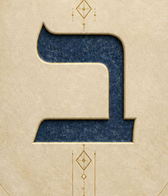
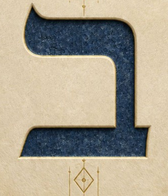
Show the chosen ballots, Azulai's portrait, hidden badges, and a loading mark.
Otzma's chip is ב and Beyachad's is רק. Yinon Azulai keeps his quote with the new portrait. Secret badges stay a question mark until earned, and waiting lines get the antique press.

diff --git a/app/public/app.js b/app/public/app.js
@@ -4071,8 +4071,10 @@ function badgeTierStarRow(tier, { style, foilKey } = {}) {
  * Every badge keeps its own icon and adds a 1/2/3 star row for the tier.
  * The sheen plays once per badge per device (see takeBadgeSheen), not on every re-render.
  */
-function badgeArtwork(id, { tier = "simple", earned = true, sheen = false } = {}) {
-  const icon = {
+function badgeArtwork(id, { tier = "simple", earned = true, sheen = false, secret = false } = {}) {
+  const icon = secret
+    ? '<path d="M21.2 20.2a2.8 2.8 0 1 1 5.2 1.5c-.7.8-2.2 1.3-2.2 2.8"/><circle cx="24.2" cy="28.6" r="1"/>'
+    : {
     "first-rip": '<path d="M16 20h16v14H16zM16 24l8-5 8 5M24 19v15"/><path d="M20 16l2-4 2 4 2-4 2 4"/>',
     "register-five": '<rect x="15" y="18" width="13" height="17" rx="1"/><path d="M19 15h13v17M23 12h12v17"/>',
     "source-check": '<circle cx="22" cy="23" r="7"/><path d="M27 28l6 6M19 23l2 2 4-5"/>',
@@ -4102,6 +4104,7 @@ function badgeArtwork(id, { tier = "simple", earned = true, sheen = false } = {}
     "numbered-first": '<path d="M21.5 14l-3 20M30 14l-3 20M15.5 20.5h18M14.5 27.5h18"/>',
     "streak-thirty": '<path d="M24 12.5c1.2 4.2 6.5 6.4 6.5 12.5a6.5 6.5 0 0 1-13 0c0-3.2 1.8-5.4 3.2-7.4.8 2 1.9 3.2 3.3 3.5-1.2-3-.9-5.9 0-8.6z"/>',
     "ten-copies": '<rect x="13" y="19" width="11" height="15" rx="1"/><rect x="18.5" y="16.5" width="11" height="15" rx="1"/><rect x="24" y="14" width="11" height="15" rx="1"/><path d="M27 19v6M30 19h2.5v6H30z"/>',
+    "warehouse-full": '<path d="M15 20h18v14H15zM18 20v-4h12v4M19 25h10M19 29h7"/>',
   }[id] || (String(id).startsWith("set-complete:")
     ? '<rect x="14" y="17" width="12" height="16" rx="1"/><rect x="20" y="14" width="12" height="16" rx="1"/><path d="M23.5 22.5l2.5 2.5 4.5-5"/>'
     : '<circle cx="24" cy="24" r="5"/>');
@@ -4153,6 +4156,7 @@ const ACHIEVEMENT_RULES = [
   ["profile", "שם או אווטאר משלי"],
   ["rare", "קלפים נדירים"],
   ["numbered", "קלפים ממוספרים"],
+  ["warehouseFull", "מחסן מלא עד הסוף"],
   ["league", "חבר בליגה"],
   ["setComplete", "סדרה מלאה (תג לכל סדרה)"],
 ];
@@ -4172,6 +4176,7 @@ function achievementEditorMarkup(badge = {}) {
           </select>
         </label>
         <label>יעד <input data-ach-field="target" type="number" min="0" max="200" value="${badge.target ?? 1}" /></label>
+        <label>נסתר עד שמשיגים <input data-ach-field="hidden" type="checkbox"${badge.hidden ? " checked" : ""} /></label>
         <label>עמוד
           <select data-ach-field="tier">
             ${ACHIEVEMENT_TIER_ORDER.map((tier) => `<option value="${tier}"${achievementTier(badge) === tier ? " selected" : ""}>${ACHIEVEMENT_TIER_LABELS[tier]}</option>`).join("")}
@@ -4212,6 +4217,7 @@ async function saveStudioAchievements() {
     rule: row.querySelector('[data-ach-field="rule"]').value,
     target: Number(row.querySelector('[data-ach-field="target"]').value) || 0,
     tier: row.querySelector('[data-ach-field="tier"]')?.value || "simple",
+    hidden: Boolean(row.querySelector('[data-ach-field="hidden"]')?.checked),
   }));
   try {
     const saved = await request("/api/studio/achievements", {
@@ -4282,6 +4288,7 @@ const BADGE_COPY = {
   "rare-three": ["שלושה נדירים", "אספו שלושה קלפים נדירים שונים."],
   "ten-copies": ["עשרה עותקים", "אספו עשרה עותקים של אותו קלף."],
   "numbered-first": ["ממוספר", "אספו קלף הולו ממוספר."],
+  "warehouse-full": ["עד אפס מקום", "המחסן הגיע לשמונה קלפים שמחכים."],
   "streak-thirty": ["חודש רצוף", "פתחו קלפים שלושים ימים ברצף."],
 };
 
@@ -4474,21 +4481,22 @@ function renderAchievements() {
   elements.achievementGrid.innerHTML = badges
     .filter((badge) => achievementTier(badge) === model.achievementTier)
     .map((badge) => {
-    const copy = hebrewBadge(badge);
+    const secret = Boolean(badge.hidden) && !badge.earned;
+    const copy = secret ? { name: "?", description: "" } : hebrewBadge(badge);
     const tier = achievementTier(badge);
     const target = Math.max(1, Number(badge.target) || 1);
     const progress = Math.max(0, Math.min(target, Number(badge.progress) || 0));
     const percent = badge.earned ? 100 : Math.max(0, Math.min(100, Math.round((progress / target) * 100)));
     return `
-    <article class="achievement-badge tier-${tier} ${badge.earned ? "earned" : ""}" data-badge-id="${escapeHtml(badge.id)}">
-      <span class="achievement-seal" aria-hidden="true">${badgeArtwork(badge.id, { tier, earned: badge.earned, sheen: tier === "hard" && badge.earned && takeBadgeSheen(badge.id) })}</span>
+    <article class="achievement-badge tier-${tier} ${badge.earned ? "earned" : ""} ${secret ? "is-secret" : ""}" data-badge-id="${escapeHtml(badge.id)}">
+      <span class="achievement-seal" aria-hidden="true">${badgeArtwork(badge.id, { tier, earned: badge.earned && !secret, sheen: tier === "hard" && badge.earned && takeBadgeSheen(badge.id), secret })}</span>
       <div>
         <strong>${escapeHtml(copy.name)}</strong>
         <p>${escapeHtml(copy.description)}</p>
-        <div class="achievement-track" role="img" aria-label="${progress} מתוך ${target}">
+        ${secret ? "" : `<div class="achievement-track" role="img" aria-label="${progress} מתוך ${target}">
           <span style="width:${percent}%"></span>
           <b>${badge.earned ? target : progress}/${target}</b>
-        </div>
+        </div>`}
       </div>
     </article>`;
   }).join("");

diff --git a/app/test/achievements.test.js b/app/test/achievements.test.js
@@ -55,9 +55,9 @@ const CARDS = [
   { id: "r2", set: "B", rarity: "Rare Holo", idleEligible: true },
 ];
 
-test("achievements.json: pages 8 / 8 / 8 rows (hard expands to one badge per pullable set)", () => {
+test("achievements.json: pages 9 / 8 / 8 rows (hard expands to one badge per pullable set)", () => {
   const byTier = Object.fromEntries(ACHIEVEMENT_TIERS.map((tier) => [tier, catalog.filter((item) => item.tier === tier).map(({ id }) => id)]));
-  assert.deepEqual(byTier.simple, ["first-rip", "register-five", "source-check", "share-pull", "first-double", "idle-eight", "faction-pick", "own-name"]);
+  assert.deepEqual(byTier.simple, ["first-rip", "register-five", "source-check", "share-pull", "first-double", "idle-eight", "faction-pick", "own-name", "warehouse-full"]);
   assert.deepEqual(byTier.medium, ["collector-ten", "three-parties", "twenty-stars", "trade-match", "rank-three", "streak-seven", "league-member", "rare-three"]);
   assert.deepEqual(byTier.hard, ["set-complete", "commons-complete", "five-leaders", "fifty-stars", "trade-three", "numbered-first", "streak-thirty", "ten-copies"]);
   assert.equal(catalog.find(({ id }) => id === "rare-three").target, 3);
@@ -69,6 +69,15 @@ test("achievements.json: pages 8 / 8 / 8 rows (hard expands to one badge per pul
   for (const item of catalog) {
     assert.ok(item.rule in measures || ["bestSet", "setComplete"].includes(item.rule), `${item.id}: unknown rule ${item.rule}`);
   }
+  assert.equal(catalog.find(({ id }) => id === "numbered-first").hidden, true);
+  assert.equal(catalog.find(({ id }) => id === "warehouse-full").hidden, true);
+  const secret = achievementProgress(catalog.find(({ id }) => id === "warehouse-full"), measures);
+  assert.equal(secret.earned, false);
+  assert.equal(secret.name, "?");
+  assert.equal(secret.description, "");
+  const revealed = achievementProgress(catalog.find(({ id }) => id === "warehouse-full"), { warehouseFull: 1 });
+  assert.equal(revealed.name, "עד אפס מקום");
+  assert.equal(achievementMeasures(session({ unseenPulls: Array(8).fill("x") }), allCards).warehouseFull, 1);
 });
 
 test("set badges: one per pullable release set, named from the release sets, in release order", () => {
@@ -214,7 +223,7 @@ test("server: state carries tiers + pages; a write stamps earnedAt and it surviv
   const token = await player();
   const fresh = await api(running.base, "/api/state", { token });
   assert.deepEqual(fresh.body.achievementPages, [
-    { tier: "simple", total: 8, earned: 0 },
+    { tier: "simple", total: 9, earned: 0 },
     { tier: "medium", total: 8, earned: 0 },
     { tier: "hard", total: 10, earned: 0 },
   ]);
@@ -291,7 +300,7 @@ test("client: three open tabs, tier art, no unlock toast, copy + icon for every 
   assert.doesNotMatch(html, /id="achievement-pager"|id="achievement-lock-note"/, "tabs replace the pager; no page locking");
   assert.match(javascript, /const ACHIEVEMENT_TIER_LABELS = Object\.freeze\(\{ simple: "הקלים", medium: "הבינוניים", hard: "הקשים" \}\)/);
   assert.match(javascript, /data-achievement-tier="\$\{item\.tier\}" aria-selected="\$\{active\}"/);
-  assert.match(javascript, /badgeArtwork\(badge\.id, \{ tier, earned: badge\.earned, sheen: tier === "hard" && badge\.earned && takeBadgeSheen\(badge\.id\) \}\)/);
+  assert.match(javascript, /badgeArtwork\(badge\.id, \{ tier, earned: badge\.earned && !secret, sheen: tier === "hard" && badge\.earned && takeBadgeSheen\(badge\.id\), secret \}\)/);
   assert.match(javascript, /<svg class="badge-artwork badge-tier-\$\{style\}"/);
   assert.match(javascript, /class="badge-seal-dot"/);
   assert.match(javascript, /style="fill:url\(#\$\{key\}-foil\)"/);

diff --git a/app/test/client-contract.test.js b/app/test/client-contract.test.js
@@ -797,7 +797,7 @@ test("client selectors match the HTML and preserve Alpha UX constraints", async 
   assert.doesNotMatch(css, /4\.2vw/);
   assert.match(javascript, /cardTitle/);
   assert.match(javascript, /cardCode/);
-  assert.match(html, /card-surface-148/);
+  assert.match(html, /card-surface-149/);
   assert.doesNotMatch(html, /id="home-pack-rip"/);
   assert.match(javascript, /function catalogReady/);
   assert.match(javascript, /function loadStaticCatalog/);
@@ -916,7 +916,7 @@ test("client selectors match the HTML and preserve Alpha UX constraints", async 
   assert.doesNotMatch(javascript, /pendingRewards\?\.length \|\|/);
   assert.doesNotMatch(html, /שעון ירושלים/);
   assert.match(html, /theme-pack-v2\.css/);
-  assert.match(html, /card-surface-148/);
+  assert.match(html, /card-surface-149/);
   assert.match(html, /id="report-dialog"/);
   assert.match(html, /id="open-bug-report"/);
   assert.match(html, /id="bug-dialog"/);
@@ -1060,7 +1060,7 @@ test("client selectors match the HTML and preserve Alpha UX constraints", async 
   assert.match(javascript, /from "\.\/walkout-sunburst\.js"/);
   assert.match(javascript, /syncWalkoutSunburst/);
   assert.match(javascript, /exitWalkoutSunburst/);
-  assert.match(html, /walkout-sunburst\.css\?v=card-surface-148/);
+  assert.match(html, /walkout-sunburst\.css\?v=card-surface-149/);
   assert.match(sunburstJs, /SUNBURST_GOLD = "#b38d3f"/);
   assert.match(sunburstJs, /common: \{ rayPairs: 4/);
   assert.match(sunburstJs, /holo: \{ rayPairs: 24/);
@@ -1075,7 +1075,7 @@ test("client selectors match the HTML and preserve Alpha UX constraints", async 
   assert.match(sunburstCss, /transform-origin: var\(--sunburst-ox\) var\(--sunburst-oy\)/);
   assert.match(sunburstCss, /prefers-reduced-motion/);
   assert.match(javascript, /from "\.\/packrip\.js"/);
-  assert.match(html, /packrip\.css\?v=card-surface-148/);
+  assert.match(html, /packrip\.css\?v=card-surface-149/);
   assert.match(javascript, /addEventListener\("packrip:done"/);
   assert.match(javascript, /model\.packPhase = "fanned";\s+renderPack\(\);\s+packTimers\.push\(setTimeout\(startWalkout, 550\)\)/);
   assert.doesNotMatch(javascript, /\}, 620\)/);

diff --git a/app/server/achievements.js b/app/server/achievements.js
@@ -4,6 +4,8 @@
  * only renders what `achievementState` / `achievementPages` return.
  */
 
+import { IDLE_BACKLOG_CAP } from "./idle-config.js";
+
 export const ACHIEVEMENT_TIERS = Object.freeze(["simple", "medium", "hard"]);
 /** A catalog row with this rule and no setId expands to one badge per pullable release set. */
 export const SET_COMPLETE_RULE = "setComplete";
@@ -25,6 +27,7 @@ export function normalizeAchievementDefinition(item) {
     target: Math.max(0, Math.round(Number(item.target) || 0)),
     tier: normalizeTier(item.tier),
     ...(item.setId ? { setId: String(item.setId) } : {}),
+    ...(item.hidden ? { hidden: true } : {}),
   };
 }
 
@@ -127,6 +130,7 @@ export function achievementMeasures(session, cards, extra = {}) {
     profile: hasCustomProfile(session) ? 1 : 0,
     rare: cards.filter((card) => card.rarity?.startsWith("Rare") && Number(inventory[card.id]) > 0).length,
     numbered: (session.instances || []).filter((item) => Number(item?.numberedIndex) > 0).length,
+    warehouseFull: (session.unseenPulls?.length || 0) >= IDLE_BACKLOG_CAP ? 1 : 0,
     league: extra.league ? 1 : 0,
     setOwned: cards.reduce((owned, card) => {
       if (card.idleEligible && !card.eventOnly && card.releaseSetId && Number(inventory[card.id]) > 0) {
@@ -163,11 +167,14 @@ export function achievementProgress(definition, measures, earnedAt = null) {
   const target = ruleTarget(definition, measures);
   const raw = ruleValue(definition, measures);
   const earned = Boolean(earnedAt) || raw >= target;
+  const hidden = Boolean(definition.hidden);
+  const secret = hidden && !earned;
   return {
     id: definition.id,
     ...(definition.setId ? { setId: definition.setId } : {}),
-    name: definition.nameHe || definition.name,
-    description: definition.descriptionHe || definition.description,
+    ...(hidden ? { hidden: true } : {}),
+    name: secret ? "?" : (definition.nameHe || definition.name),
+    description: secret ? "" : (definition.descriptionHe || definition.description),
     tier: normalizeTier(definition.tier),
     earned,
     earnedAt: earnedAt || null,

diff --git a/app/public/index.html b/app/public/index.html
@@ -17,14 +17,14 @@
   <meta property="og:image" content="https://klafi.vercel.app/design-assets/hero-art-kalpi.png" />
   <meta name="twitter:card" content="summary_large_image" />
   <title>קְלָפִי · KLAFI</title>
-  <script src="/boot-warmup.js?v=card-surface-148"></script>
+  <script src="/boot-warmup.js?v=card-surface-149"></script>
   <link rel="preconnect" href="https://fonts.googleapis.com" />
   <link rel="preconnect" href="https://fonts.gstatic.com" crossorigin />
   <link href="https://fonts.googleapis.com/css2?family=Fraunces:opsz,wght@9..144,600&family=IBM+Plex+Sans:wght@400;500;600&family=IBM+Plex+Sans+Hebrew:wght@400;500;600&family=Noto+Serif+Hebrew:wght@500;600;700&display=swap" rel="stylesheet" />
-  <link rel="stylesheet" href="/styles.css?v=card-surface-148" />
-  <link rel="stylesheet" href="/theme-pack-v2.css?v=card-surface-148" />
-  <link rel="stylesheet" href="/walkout-sunburst.css?v=card-surface-148" />
-  <link rel="stylesheet" href="/packrip.css?v=card-surface-148" />
+  <link rel="stylesheet" href="/styles.css?v=card-surface-149" />
+  <link rel="stylesheet" href="/theme-pack-v2.css?v=card-surface-149" />
+  <link rel="stylesheet" href="/walkout-sunburst.css?v=card-surface-149" />
+  <link rel="stylesheet" href="/packrip.css?v=card-surface-149" />
 </head>
 <body>
   <a class="skip-link" id="skip-to-main" href="#main">דילוג לתוכן</a>
@@ -812,6 +812,6 @@
       <button id="share-sheet-save" class="secondary-action" type="button">שמירת תמונה</button>
     </div>
   </dialog>
-  <script type="module" src="/app.js?v=card-surface-148"></script>
+  <script type="module" src="/app.js?v=card-surface-149"></script>
 </body>
 </html>

diff --git a/app/public/styles.css b/app/public/styles.css
@@ -2227,6 +2227,22 @@ img.mini-art {
   margin: 0;
   font: 600 16px/1.4 "IBM Plex Sans Hebrew", sans-serif;
 }
+.wait-dialog p::before,
+#home-settle-hint:not([hidden])::before,
+.empty-note.is-loading::before {
+  content: "";
+  display: inline-block;
+  width: 18px;
+  height: 18px;
+  margin-inline-end: 8px;
+  vertical-align: -4px;
+  background: url("/antique-wait.png?v=card-surface-149") center / 460% no-repeat;
+  animation: antique-press 1.2s steps(2, end) infinite;
+}
+@keyframes antique-press {
+  0%, 45% { transform: scale(1) rotate(-10deg); opacity: 0.45; }
+  55%, 100% { transform: scale(1) rotate(8deg); opacity: 1; }
+}
 .trade-notice-dialog {
   width: min(420px, calc(100% - 24px));
 }
@@ -5539,7 +5555,10 @@ body {
 }
 @media (prefers-reduced-motion: reduce) {
   .streak-fire { animation: none; }
-  .streak-cell.is-landing .streak-cell-check svg { animation: none; }
+  .streak-cell.is-landing .streak-cell-check svg,
+  .wait-dialog p::before,
+  #home-settle-hint:not([hidden])::before,
+  .empty-note.is-loading::before { animation: none; }
 }
 
 .level-letter,

diff --git a/app/public/avatar-ballot.js b/app/public/avatar-ballot.js
@@ -1,7 +1,7 @@
 export const PARTY_BALLOTS = Object.freeze({
   YSR: { letters: "דרך", chip: "ballot-letter-ysr.png" },
   LIK: { letters: "מחל", chip: "ballot-letter-lik.png" },
-  BYD: { letters: "ב", chip: "ballot-letter-byd.png" },
+  BYD: { letters: "רק", chip: "ballot-letter-byd.png" },
   YB: { letters: "ל", chip: "ballot-letter-yb.png" },
   DEM: { letters: "אמת", chip: "ballot-letter-dem.png" },
   RZ: { letters: "ט", chip: "ballot-letter-rz.png" },
@@ -20,9 +20,11 @@ export function partyLetterChipNames() {
 }
 
 export function factionLetters(party) {
-  const listed = (party?.finalLetters || party?.requestedLetters || [])[0] || "";
-  if (listed) return listed;
-  return PARTY_BALLOTS[party?.id]?.letters || "";
+  const official = (party?.finalLetters || [])[0] || "";
+  if (official) return official;
+  const designed = PARTY_BALLOTS[party?.id]?.letters || "";
+  if (designed) return designed;
+  return (party?.requestedLetters || [])[0] || "";
 }
 
 export function factionLetterArt(party) {

diff --git a/app/test/avatar-ballot.test.js b/app/test/avatar-ballot.test.js
@@ -30,6 +30,11 @@ test("avatar ballot is hidden without a faction and visible for every party", ()
   assert.equal(democrats.art, "ballot-letter-dem.png");
   assert.equal(democrats.letters, "אמת");
 
+  assert.equal(factionLetters({ id: "OTZ", requestedLetters: ["ב"] }), "ב");
+  assert.equal(factionLetters({ id: "BYD", requestedLetters: ["ב", "רק"] }), "רק");
+  assert.equal(avatarBallotState({ id: "BYD", requestedLetters: ["ב", "רק"] }).letters, "רק");
+  assert.equal(avatarBallotState({ id: "OTZ" }).art, "ballot-letter-otz.png");
+
   const yashar = avatarBallotState({ id: "YSR" });
   assert.equal(yashar.visible, true);
   assert.equal(yashar.showLetterArt, true);
